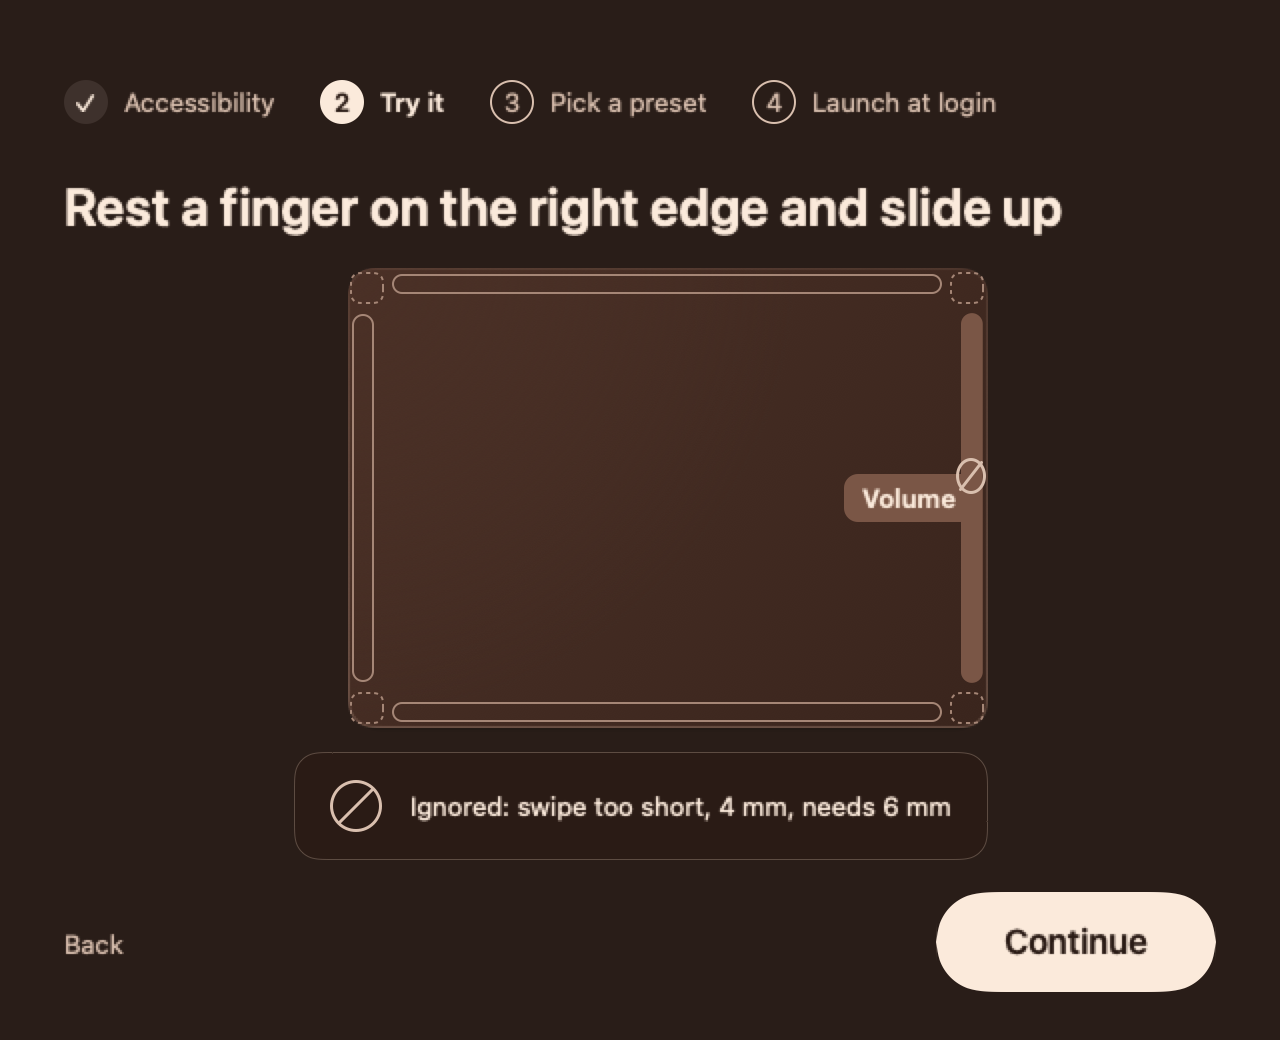
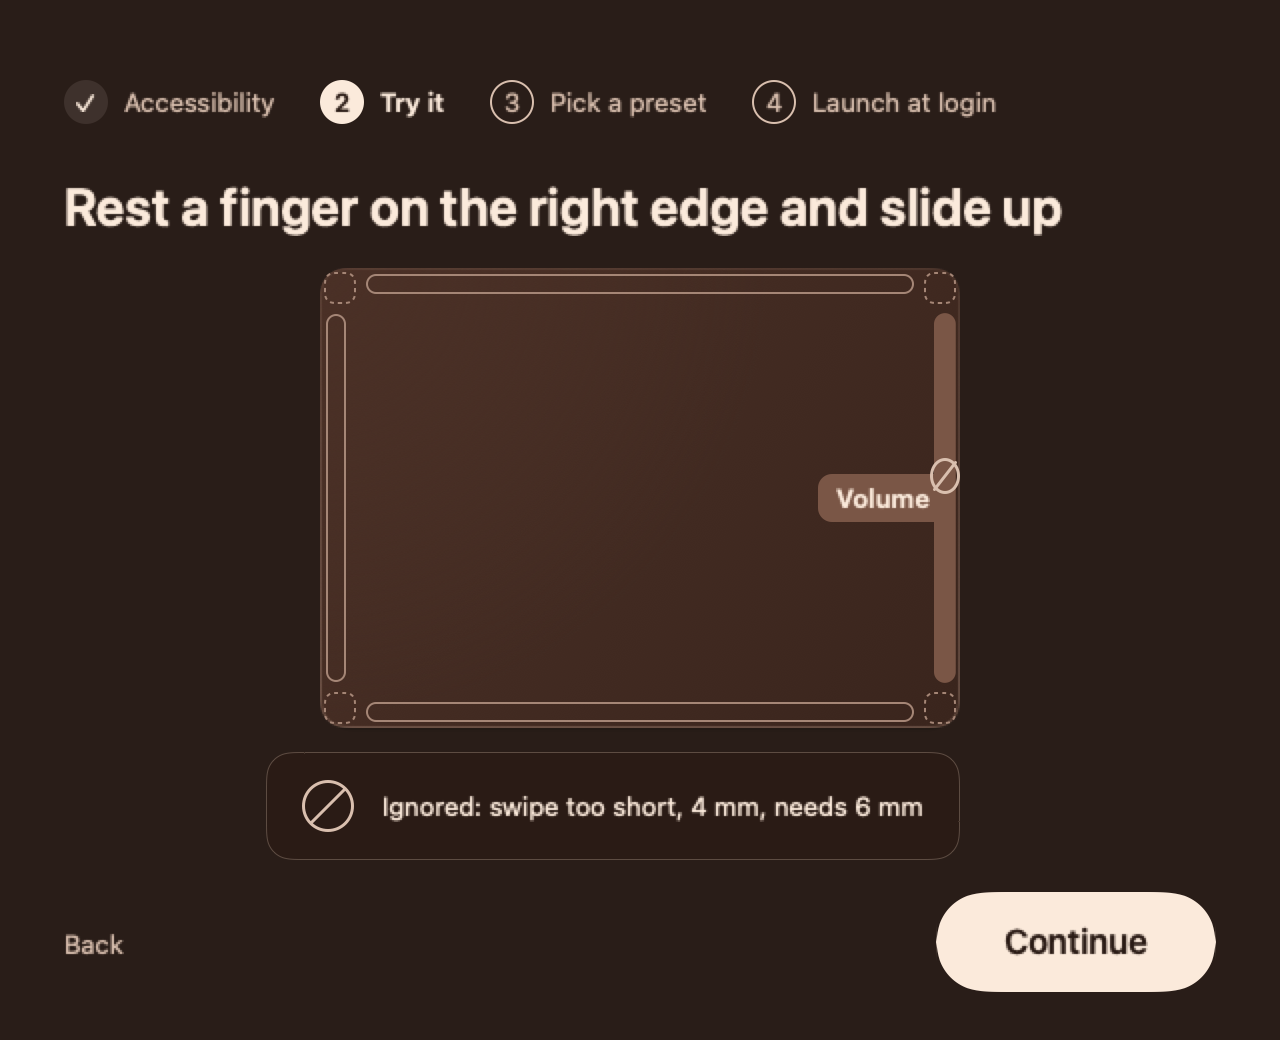
onboarding: hang the step-2 plate from the mirror's right edge so the mirror never moves; re-shoot

Changed region(s): [[0.625, 0.2462, 0.7812, 0.7077], [0.25, 0.2462, 0.3125, 0.7077], [0.2188, 0.7385, 0.75, 0.8]]

diff --git a/Sources/EdgyUI/Onboarding/OnboardingView.swift b/Sources/EdgyUI/Onboarding/OnboardingView.swift
@@ -85,14 +85,18 @@ public struct OnboardingView: View {
   private var tryIt: some View {
     VStack(alignment: .trailing, spacing: OnboardingMetrics.plateGap) {
       OnboardingMirror(model: model, onlyTaughtZone: true)
-      ZStack(alignment: .topTrailing) {
-        if let plate = state.rejection {
-          PlateView(plate)
-            .transition(.opacity)
+      // A zero-width slot at the mirror's right edge: the plate (wider than the mirror) hangs
+      // from it without widening the stack, so the mirror never moves when a plate appears.
+      Color.clear
+        .frame(width: 0, height: OnboardingMetrics.plateSlotHeight)
+        .overlay(alignment: .topTrailing) {
+          if let plate = state.rejection {
+            PlateView(plate)
+              .fixedSize()
+              .transition(.opacity)
+          }
         }
-      }
-      .frame(height: OnboardingMetrics.plateSlotHeight, alignment: .topTrailing)
-      .animation(OnboardingMotion.plate, value: state.rejection)
+        .animation(OnboardingMotion.plate, value: state.rejection)
     }
   }
 
